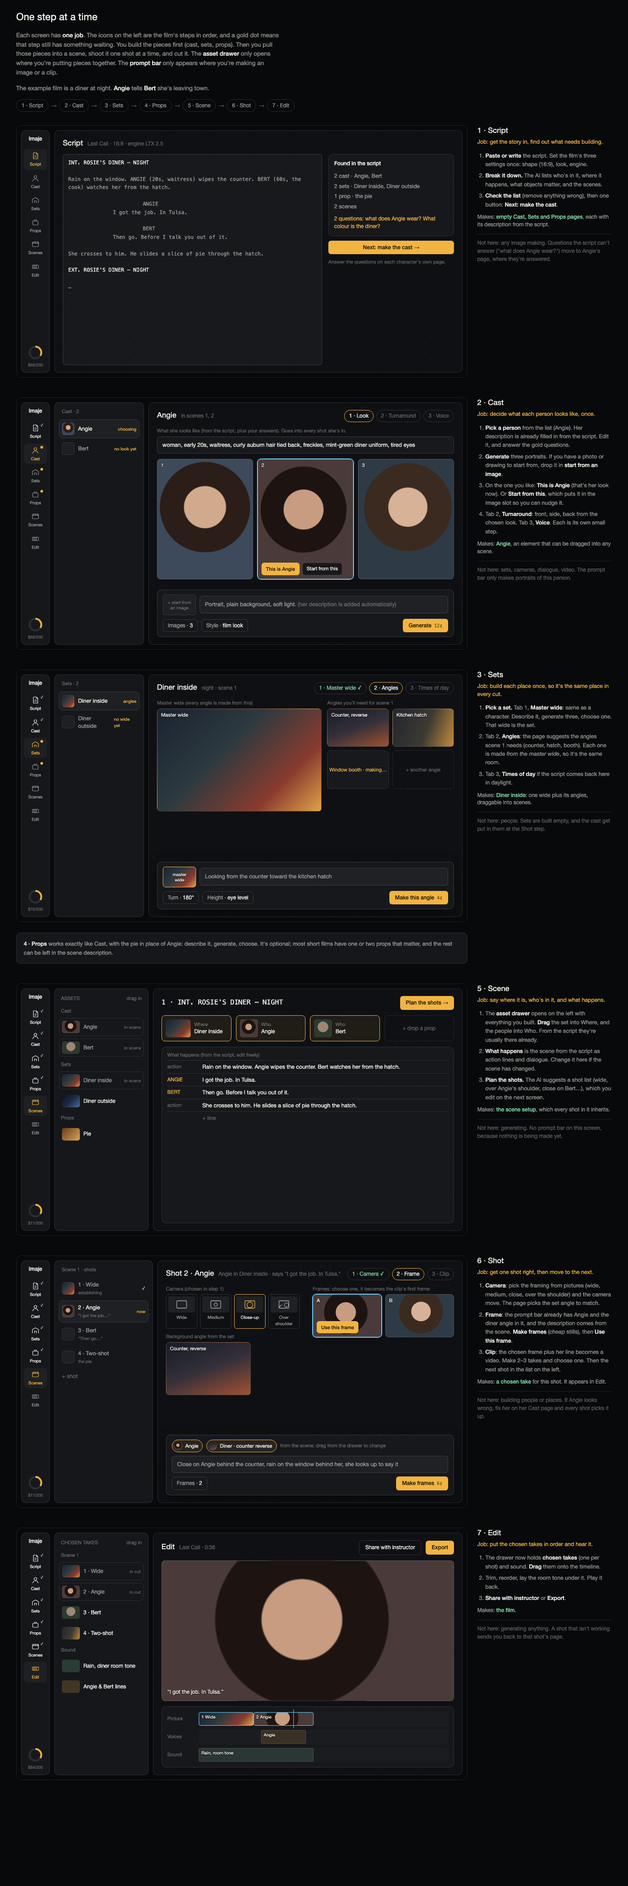
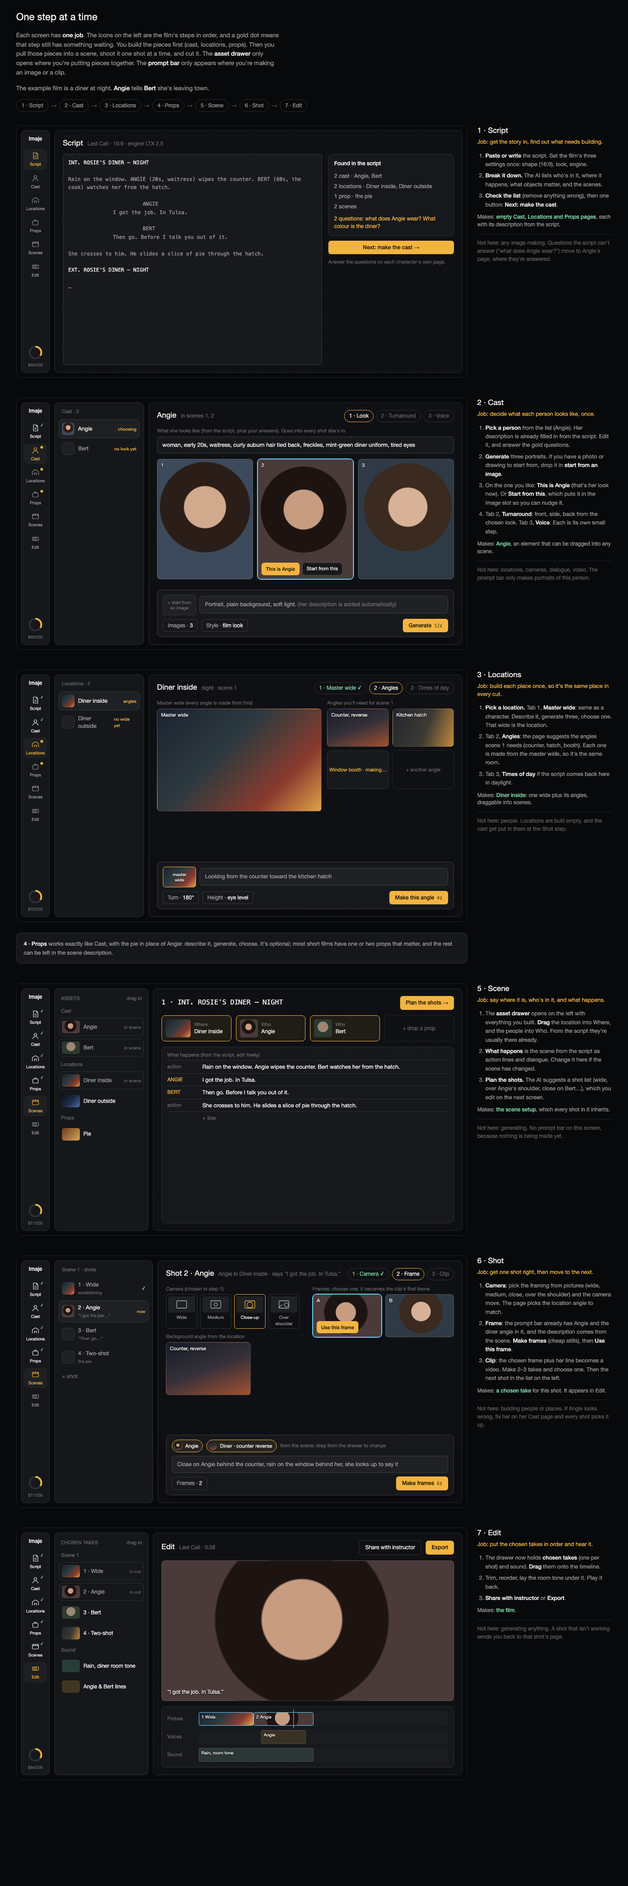
Rename Places to Locations (inside or out); /places redirects

diff --git a/docs/design/flow-mock.html b/docs/design/flow-mock.html
@@ -137,10 +137,10 @@ html,body{margin:0;background:var(--deep);color:var(--ink);font:13px/1.4 "Helvet
 <div class="wrap">
 <div class="intro">
   <h1>One step at a time</h1>
-  <p>Each screen has <b>one job</b>. The icons on the left are the film's steps in order, and a gold dot means that step still has something waiting. You build the pieces first (cast, sets, props). Then you pull those pieces into a scene, shoot it one shot at a time, and cut it. The <b>asset drawer</b> only opens where you're putting pieces together. The <b>prompt bar</b> only appears where you're making an image or a clip.</p>
+  <p>Each screen has <b>one job</b>. The icons on the left are the film's steps in order, and a gold dot means that step still has something waiting. You build the pieces first (cast, locations, props). Then you pull those pieces into a scene, shoot it one shot at a time, and cut it. The <b>asset drawer</b> only opens where you're putting pieces together. The <b>prompt bar</b> only appears where you're making an image or a clip.</p>
   <p>The example film is a diner at night. <b>Angie</b> tells <b>Bert</b> she's leaving town.</p>
 </div>
-<div class="path"><span>1 · Script</span><i>→</i><span>2 · Cast</span><i>→</i><span>3 · Sets</span><i>→</i><span>4 · Props</span><i>→</i><span>5 · Scene</span><i>→</i><span>6 · Shot</span><i>→</i><span>7 · Edit</span></div>
+<div class="path"><span>1 · Script</span><i>→</i><span>2 · Cast</span><i>→</i><span>3 · Locations</span><i>→</i><span>4 · Props</span><i>→</i><span>5 · Scene</span><i>→</i><span>6 · Shot</span><i>→</i><span>7 · Edit</span></div>
 
 <!-- ============ reusable rail markup is repeated per screen ============ -->
 
@@ -151,7 +151,7 @@ html,body{margin:0;background:var(--deep);color:var(--ink);font:13px/1.4 "Helvet
     <div class="logo">Imaje</div>
     <span class="ri on"><svg viewBox="0 0 24 24"><path d="M6 3h9l4 4v14H6z"/><path d="M15 3v4h4M9 12h7M9 16h7"/></svg>Script</span>
     <span class="ri"><svg viewBox="0 0 24 24"><circle cx="12" cy="8" r="4"/><path d="M4 21c0-4 3.6-7 8-7s8 3 8 7"/></svg>Cast</span>
-    <span class="ri"><svg viewBox="0 0 24 24"><path d="M3 20V9l9-5 9 5v11"/><path d="M9 20v-6h6v6"/></svg>Sets</span>
+    <span class="ri"><svg viewBox="0 0 24 24"><path d="M3 20V9l9-5 9 5v11"/><path d="M9 20v-6h6v6"/></svg>Locations</span>
     <span class="ri"><svg viewBox="0 0 24 24"><rect x="4" y="8" width="16" height="12" rx="2"/><path d="M9 8V5h6v3"/></svg>Props</span>
     <span class="ri"><svg viewBox="0 0 24 24"><rect x="3" y="5" width="18" height="14" rx="2"/><path d="M3 9h18M8 5l-2 4M14 5l-2 4M20 5l-2 4"/></svg>Scenes</span>
     <span class="ri"><svg viewBox="0 0 24 24"><rect x="3" y="7" width="18" height="10" rx="1"/><path d="M7 7v10M11 7v10M15 7v10"/></svg>Edit</span>
@@ -171,7 +171,7 @@ html,body{margin:0;background:var(--deep);color:var(--ink);font:13px/1.4 "Helvet
       <div style="display:flex;flex-direction:column;gap:10px">
         <div class="glass" style="padding:12px">
           <div style="font-size:12px;font-weight:500">Found in the script</div>
-          <div style="font-size:12.5px;color:var(--dim);margin-top:8px;line-height:1.8">2 cast · Angie, Bert<br>2 sets · Diner inside, Diner outside<br>1 prop · the pie<br>2 scenes</div>
+          <div style="font-size:12.5px;color:var(--dim);margin-top:8px;line-height:1.8">2 cast · Angie, Bert<br>2 locations · Diner inside, Diner outside<br>1 prop · the pie<br>2 scenes</div>
           <div style="font-size:12px;color:var(--gold);margin-top:8px">2 questions: what does Angie wear? What colour is the diner?</div>
         </div>
         <span class="btn" style="text-align:center">Next: make the cast →</span>
@@ -188,7 +188,7 @@ html,body{margin:0;background:var(--deep);color:var(--ink);font:13px/1.4 "Helvet
     <li><b>Break it down.</b> The AI lists who's in it, where it happens, what objects matter, and the scenes.</li>
     <li><b>Check the list</b> (remove anything wrong), then one button: <b>Next: make the cast</b>.</li>
   </ol>
-  <div class="out">Makes: <b>empty Cast, Sets and Props pages</b>, each with its description from the script.</div>
+  <div class="out">Makes: <b>empty Cast, Locations and Props pages</b>, each with its description from the script.</div>
   <div class="not">Not here: any image making. Questions the script can't answer ("what does Angie wear?") move to Angie's page, where they're answered.</div>
 </div>
 </div>
@@ -200,7 +200,7 @@ html,body{margin:0;background:var(--deep);color:var(--ink);font:13px/1.4 "Helvet
     <div class="logo">Imaje</div>
     <span class="ri done"><span class="ck">✓</span><svg viewBox="0 0 24 24"><path d="M6 3h9l4 4v14H6z"/><path d="M15 3v4h4M9 12h7M9 16h7"/></svg>Script</span>
     <span class="ri on"><span class="d"></span><svg viewBox="0 0 24 24"><circle cx="12" cy="8" r="4"/><path d="M4 21c0-4 3.6-7 8-7s8 3 8 7"/></svg>Cast</span>
-    <span class="ri"><span class="d"></span><svg viewBox="0 0 24 24"><path d="M3 20V9l9-5 9 5v11"/><path d="M9 20v-6h6v6"/></svg>Sets</span>
+    <span class="ri"><span class="d"></span><svg viewBox="0 0 24 24"><path d="M3 20V9l9-5 9 5v11"/><path d="M9 20v-6h6v6"/></svg>Locations</span>
     <span class="ri"><span class="d"></span><svg viewBox="0 0 24 24"><rect x="4" y="8" width="16" height="12" rx="2"/><path d="M9 8V5h6v3"/></svg>Props</span>
     <span class="ri"><svg viewBox="0 0 24 24"><rect x="3" y="5" width="18" height="14" rx="2"/><path d="M3 9h18M8 5l-2 4M14 5l-2 4M20 5l-2 4"/></svg>Scenes</span>
     <span class="ri"><svg viewBox="0 0 24 24"><rect x="3" y="7" width="18" height="10" rx="1"/><path d="M7 7v10M11 7v10M15 7v10"/></svg>Edit</span>
@@ -240,7 +240,7 @@ html,body{margin:0;background:var(--deep);color:var(--ink);font:13px/1.4 "Helvet
     <li>Tab 2, <b>Turnaround</b>: front, side, back from the chosen look. Tab 3, <b>Voice</b>. Each is its own small step.</li>
   </ol>
   <div class="out">Makes: <b>Angie</b>, an element that can be dragged into any scene.</div>
-  <div class="not">Not here: sets, cameras, dialogue, video. The prompt bar only makes portraits of this person.</div>
+  <div class="not">Not here: locations, cameras, dialogue, video. The prompt bar only makes portraits of this person.</div>
 </div>
 </div>
 
@@ -251,14 +251,14 @@ html,body{margin:0;background:var(--deep);color:var(--ink);font:13px/1.4 "Helvet
     <div class="logo">Imaje</div>
     <span class="ri done"><span class="ck">✓</span><svg viewBox="0 0 24 24"><path d="M6 3h9l4 4v14H6z"/><path d="M15 3v4h4M9 12h7M9 16h7"/></svg>Script</span>
     <span class="ri done"><span class="ck">✓</span><svg viewBox="0 0 24 24"><circle cx="12" cy="8" r="4"/><path d="M4 21c0-4 3.6-7 8-7s8 3 8 7"/></svg>Cast</span>
-    <span class="ri on"><span class="d"></span><svg viewBox="0 0 24 24"><path d="M3 20V9l9-5 9 5v11"/><path d="M9 20v-6h6v6"/></svg>Sets</span>
+    <span class="ri on"><span class="d"></span><svg viewBox="0 0 24 24"><path d="M3 20V9l9-5 9 5v11"/><path d="M9 20v-6h6v6"/></svg>Locations</span>
     <span class="ri"><span class="d"></span><svg viewBox="0 0 24 24"><rect x="4" y="8" width="16" height="12" rx="2"/><path d="M9 8V5h6v3"/></svg>Props</span>
     <span class="ri"><svg viewBox="0 0 24 24"><rect x="3" y="5" width="18" height="14" rx="2"/><path d="M3 9h18M8 5l-2 4M14 5l-2 4M20 5l-2 4"/></svg>Scenes</span>
     <span class="ri"><svg viewBox="0 0 24 24"><rect x="3" y="7" width="18" height="10" rx="1"/><path d="M7 7v10M11 7v10M15 7v10"/></svg>Edit</span>
     <span class="sp"></span><span class="ring"><i></i></span><small>$70/200</small>
   </nav>
   <div class="glass list">
-    <div class="h">Sets · 2</div>
+    <div class="h">Locations · 2</div>
     <div class="li on"><i style="border:none;background:var(--diner)"></i>Diner inside<span class="st todo">angles</span></div>
     <div class="li"><i></i>Diner outside<span class="st todo">no wide yet</span></div>
   </div>
@@ -285,15 +285,15 @@ html,body{margin:0;background:var(--deep);color:var(--ink);font:13px/1.4 "Helvet
   </div>
 </div></div>
 <div class="notes">
-  <h2>3 · Sets</h2>
+  <h2>3 · Locations</h2>
   <div class="job">Job: build each place once, so it's the same place in every cut.</div>
   <ol>
-    <li><b>Pick a set.</b> Tab 1, <b>Master wide</b>: same as a character. Describe it, generate three, choose one. That wide is the set.</li>
+    <li><b>Pick a location.</b> Tab 1, <b>Master wide</b>: same as a character. Describe it, generate three, choose one. That wide is the location.</li>
     <li>Tab 2, <b>Angles</b>: the page suggests the angles scene 1 needs (counter, hatch, booth). Each one is made <i>from the master wide</i>, so it's the same room.</li>
     <li>Tab 3, <b>Times of day</b> if the script comes back here in daylight.</li>
   </ol>
   <div class="out">Makes: <b>Diner inside</b>: one wide plus its angles, draggable into scenes.</div>
-  <div class="not">Not here: people. Sets are built empty, and the cast get put in them at the Shot step.</div>
+  <div class="not">Not here: people. Locations are built empty, and the cast get put in them at the Shot step.</div>
 </div>
 </div>
 
@@ -312,7 +312,7 @@ html,body{margin:0;background:var(--deep);color:var(--ink);font:13px/1.4 "Helvet
     <div class="logo">Imaje</div>
     <span class="ri done"><span class="ck">✓</span><svg viewBox="0 0 24 24"><path d="M6 3h9l4 4v14H6z"/><path d="M15 3v4h4M9 12h7M9 16h7"/></svg>Script</span>
     <span class="ri done"><span class="ck">✓</span><svg viewBox="0 0 24 24"><circle cx="12" cy="8" r="4"/><path d="M4 21c0-4 3.6-7 8-7s8 3 8 7"/></svg>Cast</span>
-    <span class="ri done"><span class="ck">✓</span><svg viewBox="0 0 24 24"><path d="M3 20V9l9-5 9 5v11"/><path d="M9 20v-6h6v6"/></svg>Sets</span>
+    <span class="ri done"><span class="ck">✓</span><svg viewBox="0 0 24 24"><path d="M3 20V9l9-5 9 5v11"/><path d="M9 20v-6h6v6"/></svg>Locations</span>
     <span class="ri done"><span class="ck">✓</span><svg viewBox="0 0 24 24"><rect x="4" y="8" width="16" height="12" rx="2"/><path d="M9 8V5h6v3"/></svg>Props</span>
     <span class="ri on"><svg viewBox="0 0 24 24"><rect x="3" y="5" width="18" height="14" rx="2"/><path d="M3 9h18M8 5l-2 4M14 5l-2 4M20 5l-2 4"/></svg>Scenes</span>
     <span class="ri"><svg viewBox="0 0 24 24"><rect x="3" y="7" width="18" height="10" rx="1"/><path d="M7 7v10M11 7v10M15 7v10"/></svg>Edit</span>
@@ -323,7 +323,7 @@ html,body{margin:0;background:var(--deep);color:var(--ink);font:13px/1.4 "Helvet
     <div class="h">Cast</div>
     <div class="as used"><i style="background:var(--angie2)"></i>Angie<span class="u">in scene</span></div>
     <div class="as used"><i style="background:var(--bert)"></i>Bert<span class="u">in scene</span></div>
-    <div class="h">Sets</div>
+    <div class="h">Locations</div>
     <div class="as used"><i style="background:var(--diner)"></i>Diner inside<span class="u">in scene</span></div>
     <div class="as"><i style="background:linear-gradient(135deg,#0d1220,#1d2a45,#4d6c9c)"></i>Diner outside</div>
     <div class="h">Props</div>
@@ -351,7 +351,7 @@ html,body{margin:0;background:var(--deep);color:var(--ink);font:13px/1.4 "Helvet
   <h2>5 · Scene</h2>
   <div class="job">Job: say where it is, who's in it, and what happens.</div>
   <ol>
-    <li>The <b>asset drawer</b> opens on the left with everything you built. <b>Drag</b> the set into Where, and the people into Who. From the script they're usually there already.</li>
+    <li>The <b>asset drawer</b> opens on the left with everything you built. <b>Drag</b> the location into Where, and the people into Who. From the script they're usually there already.</li>
     <li><b>What happens</b> is the scene from the script as action lines and dialogue. Change it here if the scene has changed.</li>
     <li><b>Plan the shots.</b> The AI suggests a shot list (wide, over Angie's shoulder, close on Bert…), which you edit on the next screen.</li>
   </ol>
@@ -367,7 +367,7 @@ html,body{margin:0;background:var(--deep);color:var(--ink);font:13px/1.4 "Helvet
     <div class="logo">Imaje</div>
     <span class="ri done"><span class="ck">✓</span><svg viewBox="0 0 24 24"><path d="M6 3h9l4 4v14H6z"/><path d="M15 3v4h4M9 12h7M9 16h7"/></svg>Script</span>
     <span class="ri done"><span class="ck">✓</span><svg viewBox="0 0 24 24"><circle cx="12" cy="8" r="4"/><path d="M4 21c0-4 3.6-7 8-7s8 3 8 7"/></svg>Cast</span>
-    <span class="ri done"><span class="ck">✓</span><svg viewBox="0 0 24 24"><path d="M3 20V9l9-5 9 5v11"/><path d="M9 20v-6h6v6"/></svg>Sets</span>
+    <span class="ri done"><span class="ck">✓</span><svg viewBox="0 0 24 24"><path d="M3 20V9l9-5 9 5v11"/><path d="M9 20v-6h6v6"/></svg>Locations</span>
     <span class="ri done"><span class="ck">✓</span><svg viewBox="0 0 24 24"><rect x="4" y="8" width="16" height="12" rx="2"/><path d="M9 8V5h6v3"/></svg>Props</span>
     <span class="ri on"><svg viewBox="0 0 24 24"><rect x="3" y="5" width="18" height="14" rx="2"/><path d="M3 9h18M8 5l-2 4M14 5l-2 4M20 5l-2 4"/></svg>Scenes</span>
     <span class="ri"><svg viewBox="0 0 24 24"><rect x="3" y="7" width="18" height="10" rx="1"/><path d="M7 7v10M11 7v10M15 7v10"/></svg>Edit</span>
@@ -387,7 +387,7 @@ html,body{margin:0;background:var(--deep);color:var(--ink);font:13px/1.4 "Helvet
     <div style="display:grid;grid-template-columns:1fr 1fr;gap:12px">
       <div><div class="lbl">Camera (chosen in step 1)</div>
         <div class="tiles"><div class="tile"><div class="v"><svg viewBox="0 0 30 24"><rect x="3" y="3" width="24" height="18" rx="2"/></svg></div>Wide</div><div class="tile"><div class="v"><svg viewBox="0 0 30 24"><rect x="3" y="3" width="24" height="18" rx="2"/><circle cx="15" cy="12" r="4"/></svg></div>Medium</div><div class="tile on"><div class="v"><svg viewBox="0 0 30 24"><rect x="3" y="3" width="24" height="18" rx="2"/><circle cx="15" cy="13" r="7"/></svg></div>Close-up</div><div class="tile"><div class="v"><svg viewBox="0 0 30 24"><rect x="3" y="3" width="24" height="18" rx="2"/><circle cx="21" cy="13" r="5"/><path d="M3 21c2-6 6-8 8-8"/></svg></div>Over shoulder</div></div>
-        <div class="lbl" style="margin-top:10px">Background angle from the set</div>
+        <div class="lbl" style="margin-top:10px">Background angle from the location</div>
         <div class="im" style="background:var(--diner2);width:60%"><span class="n">Counter, reverse</span></div>
       </div>
       <div><div class="lbl">Frames: choose one, it becomes the clip's first frame</div>
@@ -412,7 +412,7 @@ html,body{margin:0;background:var(--deep);color:var(--ink);font:13px/1.4 "Helvet
   <h2>6 · Shot</h2>
   <div class="job">Job: get one shot right, then move to the next.</div>
   <ol>
-    <li><b>Camera</b>: pick the framing from pictures (wide, medium, close, over the shoulder) and the camera move. The page picks the set angle to match.</li>
+    <li><b>Camera</b>: pick the framing from pictures (wide, medium, close, over the shoulder) and the camera move. The page picks the location angle to match.</li>
     <li><b>Frame</b>: the prompt bar already has Angie and the diner angle in it, and the description comes from the scene. <b>Make frames</b> (cheap stills), then <b>Use this frame</b>.</li>
     <li><b>Clip</b>: the chosen frame plus her line becomes a video. Make 2–3 takes and choose one. Then the next shot in the list on the left.</li>
   </ol>
@@ -428,7 +428,7 @@ html,body{margin:0;background:var(--deep);color:var(--ink);font:13px/1.4 "Helvet
     <div class="logo">Imaje</div>
     <span class="ri done"><span class="ck">✓</span><svg viewBox="0 0 24 24"><path d="M6 3h9l4 4v14H6z"/><path d="M15 3v4h4M9 12h7M9 16h7"/></svg>Script</span>
     <span class="ri done"><span class="ck">✓</span><svg viewBox="0 0 24 24"><circle cx="12" cy="8" r="4"/><path d="M4 21c0-4 3.6-7 8-7s8 3 8 7"/></svg>Cast</span>
-    <span class="ri done"><span class="ck">✓</span><svg viewBox="0 0 24 24"><path d="M3 20V9l9-5 9 5v11"/><path d="M9 20v-6h6v6"/></svg>Sets</span>
+    <span class="ri done"><span class="ck">✓</span><svg viewBox="0 0 24 24"><path d="M3 20V9l9-5 9 5v11"/><path d="M9 20v-6h6v6"/></svg>Locations</span>
     <span class="ri done"><span class="ck">✓</span><svg viewBox="0 0 24 24"><rect x="4" y="8" width="16" height="12" rx="2"/><path d="M9 8V5h6v3"/></svg>Props</span>
     <span class="ri done"><span class="ck">✓</span><svg viewBox="0 0 24 24"><rect x="3" y="5" width="18" height="14" rx="2"/><path d="M3 9h18M8 5l-2 4M14 5l-2 4M20 5l-2 4"/></svg>Scenes</span>
     <span class="ri on"><svg viewBox="0 0 24 24"><rect x="3" y="7" width="18" height="10" rx="1"/><path d="M7 7v10M11 7v10M15 7v10"/></svg>Edit</span>

diff --git a/apps/web/app/p/[projectId]/ScriptStudio.tsx b/apps/web/app/p/[projectId]/ScriptStudio.tsx
@@ -7,7 +7,7 @@ import { applyBreakdown, runBreakdown, saveScript } from "./script/actions";
 type Existing = { kind: string; name: string };
 const norm = (s: string) => s.trim().toLowerCase().replace(/\s+/g, " ");
 
-// The script, and its breakdown. Paste or write the script; "Break it down" asks for the cast, places,
+// The script, and its breakdown. Paste or write the script; "Break it down" asks for the cast, locations,
 // props and scenes; the student edits what came back (especially how each character looks) and keeps it.
 export function ScriptStudio({ projectId, initial, existing, canEdit }: { projectId: string; initial: string; existing: Existing[]; canEdit: boolean }) {
   const router = useRouter();
@@ -48,7 +48,7 @@ export function ScriptStudio({ projectId, initial, existing, canEdit }: { projec
       const r = await applyBreakdown(projectId, kept);
       setPhase("idle");
       if ("error" in r) { setMsg({ kind: "error", text: r.error }); return; }
-      setMsg({ kind: "ok", text: `${r.summary} Next: give every character a look and every place a master wide.` });
+      setMsg({ kind: "ok", text: `${r.summary} Next: give every character a look and every location a master wide.` });
       setB(null); router.refresh();
     });
   }
@@ -79,7 +79,7 @@ export function ScriptStudio({ projectId, initial, existing, canEdit }: { projec
             <button type="button" onClick={breakdown} disabled={pending || script.trim().length < 40} className="btn-primary disabled:opacity-40">
               {phase === "reading" ? "Reading the script…" : "Break it down"}
             </button>
-            <span className="text-[11px] text-mute">Finds the characters, places, props and scenes. You check it before anything is kept.</span>
+            <span className="text-[11px] text-mute">Finds the characters, locations, props and scenes. You check it before anything is kept.</span>
           </div>
         )}
         {msg && <p className={`mt-2 text-[12px] ${msg.kind === "ok" ? "text-ok" : "text-drift"}`}>{msg.text}</p>}
@@ -91,9 +91,9 @@ export function ScriptStudio({ projectId, initial, existing, canEdit }: { projec
             <div className="text-[12px] font-medium text-ink">How this works</div>
             <ol className="mt-2 list-decimal space-y-1 pl-4">
               <li>Write or paste the script on the left.</li>
-              <li><b className="text-ink">Break it down.</b> You get the cast, the places, the props and the scenes it found.</li>
-              <li>Describe how each character looks and what each place looks like. That description is used in every shot they appear in.</li>
-              <li>Keep it. Then build each character and place once (Cast, Places), and shoot scene by scene.</li>
+              <li><b className="text-ink">Break it down.</b> You get the cast, the locations, the props and the scenes it found.</li>
+              <li>Describe how each character looks and what each location looks like. That description is used in every shot they appear in.</li>
+              <li>Keep it. Then build each character and location once (Cast, Locations), and shoot scene by scene.</li>
             </ol>
           </div>
         )}
@@ -120,7 +120,7 @@ export function ScriptStudio({ projectId, initial, existing, canEdit }: { projec
               </div>
             </section>
             <section className="glass rounded-[10px] p-3">
-              <div className="text-[12px] font-medium">Places <span className="font-normal text-mute">· {b.locations.length}</span></div>
+              <div className="text-[12px] font-medium">Locations <span className="font-normal text-mute">· {b.locations.length}</span></div>
               <div className="mt-2 flex flex-col gap-3">
                 {b.locations.map((l, i) => (
                   <div key={i} className="rounded-[8px] border border-glass-edge p-2">

diff --git a/apps/web/app/p/[projectId]/bible/BibleList.tsx b/apps/web/app/p/[projectId]/bible/BibleList.tsx
@@ -7,7 +7,7 @@ type Kind = "character" | "location" | "prop" | "style" | "voice";
 const COPY: Record<Kind, { title: string; blurb: string; name: string; who: string; look: string; lookPh: string }> = {
   character: { title: "Cast", blurb: "Everyone in the film. Build each one once: who they are and exactly how they look. That look goes into every shot they're in.",
                name: "MAYA", who: "Who they are", look: "What they look like", lookPh: "woman, 30s, long straight dark hair, round glasses, grey wool coat" },
-  location: { title: "Places", blurb: "Every set. Describe it, then make a master wide: every angle of the place is made from that wide so it stays the same place.",
+  location: { title: "Locations", blurb: "Every location, inside or out. Describe it, then make a master wide: every angle is made from that wide so it stays the same location.",
               name: "WAREHOUSE", who: "What it is", look: "What it looks like", lookPh: "empty brick warehouse, one high window, concrete floor, dusk light" },
   prop: { title: "Props", blurb: "Objects the story depends on. Describe them once so they look the same in every shot.",
           name: "RED DUFFEL BAG", who: "What it's for", look: "What it looks like", lookPh: "faded red canvas duffel, black straps, scuffed corners" },
@@ -66,7 +66,7 @@ export async function BibleList({ projectId, kind, ok, error }: { projectId: str
       </ul>
 
       <details className="glass rounded-[10px] p-3">
-        <summary className="cursor-pointer select-none text-[12px] font-medium">Add {kind === "character" ? "a character" : kind === "location" ? "a place" : `a ${kind}`}</summary>
+        <summary className="cursor-pointer select-none text-[12px] font-medium">Add {kind === "character" ? "a character" : kind === "location" ? "a location" : `a ${kind}`}</summary>
         <form action={createEntry} className="mt-3 grid gap-2 sm:grid-cols-2">
           <input type="hidden" name="project_id" value={projectId} /><input type="hidden" name="kind" value={kind} />
           <label className="label">Name<input name="name" required placeholder={c.name} className="input mt-0.5 w-full" /></label>

diff --git a/apps/web/components/ProjectPanel.tsx b/apps/web/components/ProjectPanel.tsx
@@ -3,8 +3,8 @@ import { NavGroup, NavItem } from "./NavItem";
 import { TokenBar, TokenRing, type Budget } from "./TokenMeter";
 
 // The slide-out for a project: the cohort's projects (current one open) with the project's pages
-// underneath as production stages (Script → Cast / Places / Props → Scenes), and the token meter.
-export type StageCounts = { script?: string; cast?: string; places?: string; props?: string; scenes?: string };
+// underneath as production stages (Script → Cast / Locations / Props → Scenes), and the token meter.
+export type StageCounts = { script?: string; cast?: string; locations?: string; props?: string; scenes?: string };
 export function ProjectPanel({ nav, cohortId, projectId, budget, note, inline, counts, children }: { nav: Nav; cohortId: string; projectId: string; budget?: Budget | null; note?: React.ReactNode; inline?: boolean; counts?: StageCounts; children?: React.ReactNode }) {
   const projects = nav.projectsByCohort[cohortId] ?? [];
   const cohort = nav.cohorts.find((c) => c.id === cohortId);
@@ -21,7 +21,7 @@ export function ProjectPanel({ nav, cohortId, projectId, budget, note, inline, c
                 <div>
                   <NavItem href={`/p/${p.id}`} exact depth={1} icon="BookOpen" mark={counts?.script}>Script</NavItem>
                   <NavItem href={`/p/${p.id}/cast`} depth={1} icon="UserRound" mark={counts?.cast}>Cast</NavItem>
-                  <NavItem href={`/p/${p.id}/places`} depth={1} icon="Building2" mark={counts?.places}>Places</NavItem>
+                  <NavItem href={`/p/${p.id}/locations`} depth={1} icon="Building2" mark={counts?.locations}>Locations</NavItem>
                   <NavItem href={`/p/${p.id}/props`} depth={1} icon="KeyRound" mark={counts?.props}>Props</NavItem>
                   <NavItem href={`/p/${p.id}/scenes`} depth={1} icon="LayoutGrid" mark={counts?.scenes}>Scenes</NavItem>
                   <NavItem href={`/p/${p.id}/members`} depth={1} icon="Users">Crew</NavItem>

diff --git a/apps/web/app/p/[projectId]/page.tsx b/apps/web/app/p/[projectId]/page.tsx
@@ -19,9 +19,9 @@ export default async function ProjectHome({ params }: { params: Promise<{ projec
   const chosen = (shots ?? []).filter((s) => s.selected_take_id).length;
   const hasScript = !!project?.script?.trim();
   const next = !hasScript ? "Write or paste the script, then break it down."
-    : count("character") + count("location") === 0 ? "Break the script down to find the cast and the places."
-    : unlooked > 0 ? `${unlooked} character${unlooked === 1 ? "" : "s"} or place${unlooked === 1 ? "" : "s"} still need a description of how they look.`
-    : unbuilt > 0 ? `${unbuilt} place${unbuilt === 1 ? "" : "s"} still need a master wide.`
+    : count("character") + count("location") === 0 ? "Break the script down to find the cast and the locations."
+    : unlooked > 0 ? `${unlooked} character${unlooked === 1 ? "" : "s"} or location${unlooked === 1 ? "" : "s"} still need a description of how they look.`
+    : unbuilt > 0 ? `${unbuilt} location${unbuilt === 1 ? "" : "s"} still need a master wide.`
     : "Shoot scene by scene.";
   const stage = (href: string, label: string, detail: string) => (
     <Link href={href} className="glass flex min-w-[130px] flex-1 flex-col rounded-[10px] px-3 py-2 hover:border-card-edge">
@@ -38,7 +38,7 @@ export default async function ProjectHome({ params }: { params: Promise<{ projec
       <div className="flex flex-wrap gap-2">
         {stage(`/p/${projectId}`, "1 · Script", hasScript ? "written" : "not started")}
         {stage(`/p/${projectId}/cast`, "2 · Cast", `${count("character")} characters`)}
-        {stage(`/p/${projectId}/places`, "3 · Places", `${count("location")} places`)}
+        {stage(`/p/${projectId}/locations`, "3 · Locations", `${count("location")} locations`)}
         {stage(`/p/${projectId}/props`, "Props", `${count("prop")} props`)}
         {stage(`/p/${projectId}/scenes`, "4 · Scenes", `${(scenes ?? []).length} scenes · ${chosen}/${(shots ?? []).length} cuts chosen`)}
       </div>

diff --git a/apps/web/app/p/[projectId]/layout.tsx b/apps/web/app/p/[projectId]/layout.tsx
@@ -5,7 +5,7 @@ import { createClient } from "@/lib/supabase/server";
 import { Shell } from "@/components/Shell";
 import { SidebarNote } from "@/components/Sidebar";
 
-const SECTIONS = { "": "Script", cast: "Cast", places: "Places", props: "Props", bible: "Bible", scenes: "Scenes", shoot: "Scenes", shots: "Scenes", members: "Crew" };
+const SECTIONS = { "": "Script", cast: "Cast", locations: "Locations", places: "Locations", props: "Props", bible: "Bible", scenes: "Scenes", shoot: "Scenes", shots: "Scenes", members: "Crew" };
 
 export default async function ProjectLayout({ children, params }: { children: React.ReactNode; params: Promise<{ projectId: string }> }) {
   const { projectId } = await params;
@@ -25,7 +25,7 @@ export default async function ProjectLayout({ children, params }: { children: Re
     supabase.from("projects").select("script").eq("id", projectId).maybeSingle(),
   ]);
   const n = (k: string) => String((entries ?? []).filter((e) => e.kind === k).length);
-  const counts = { script: proj?.script?.trim() ? "✓" : "", cast: n("character"), places: n("location"), props: n("prop"), scenes: String((scenes ?? []).length) };
+  const counts = { script: proj?.script?.trim() ? "✓" : "", cast: n("character"), locations: n("location"), props: n("prop"), scenes: String((scenes ?? []).length) };
   const base = `/p/${projectId}`;
   const cohortName = project.cohorts?.name ?? "Cohort";
 

diff --git a/apps/web/app/p/[projectId]/bible/[entryId]/page.tsx b/apps/web/app/p/[projectId]/bible/[entryId]/page.tsx
@@ -74,7 +74,7 @@ export default async function EntryPage({ params, searchParams }: { params: Prom
         <h1 className="text-[22px]">{e.name} <span className="ml-2 text-[13px] text-dim">{e.kind === "location" ? "environment" : e.kind}</span></h1>
         {e.requires_consent && <BibleChip state={e.consent_state} />}
         {row?.forked_from && <Link href={`/p/${projectId}/bible/${row.forked_from}`} className="text-[11px] text-mute underline">forked from an earlier version</Link>}
-        <Link href={`/p/${projectId}/${e.kind === "location" ? "places" : e.kind === "prop" ? "props" : "cast"}`} className="ml-auto text-[11px] text-mute hover:text-dim">← {e.kind === "location" ? "Places" : e.kind === "prop" ? "Props" : "Cast"}</Link>
+        <Link href={`/p/${projectId}/${e.kind === "location" ? "locations" : e.kind === "prop" ? "props" : "cast"}`} className="ml-auto text-[11px] text-mute hover:text-dim">← {e.kind === "location" ? "Locations" : e.kind === "prop" ? "Props" : "Cast"}</Link>
       </div>
       {ok && <p className="rounded-[6px] bg-ok/10 px-3 py-2 text-[12px] text-ok">{ok}</p>}
       {error && <p className="rounded-[6px] bg-drift/10 px-3 py-2 text-[12px] text-drift">{error}</p>}

diff --git a/apps/web/app/p/[projectId]/scenes/page.tsx b/apps/web/app/p/[projectId]/scenes/page.tsx
@@ -94,7 +94,7 @@ export default async function ScenesPage({ params, searchParams }: { params: Pro
           {scene && (
             <div className="mt-1 flex flex-wrap items-center gap-1.5 text-[11px]">
               {sceneLocation ? <Link href={`/p/${projectId}/bible/${sceneLocation.id}`} className="pill pinned">{sceneLocation.name}</Link>
-                : <Link href={`/p/${projectId}/places`} className="pill border-dashed text-gold">set a place for this scene</Link>}
+                : <Link href={`/p/${projectId}/locations`} className="pill border-dashed text-gold">set a location for this scene</Link>}
               {scene.time_of_day && <span className="pill text-dim">{scene.time_of_day}</span>}
               {sceneMembers.map((m) => <Link key={m.id} href={`/p/${projectId}/bible/${m.id}`} className="pill text-dim">{m.name}</Link>)}
             </div>

diff --git a/apps/web/app/p/[projectId]/places/page.tsx b/apps/web/app/p/[projectId]/places/page.tsx
@@ -1,7 +1,7 @@
-import { BibleList } from "../bible/BibleList";
+import { redirect } from "next/navigation";
 
-export default async function Page({ params, searchParams }: { params: Promise<{ projectId: string }>; searchParams: Promise<{ ok?: string; error?: string }> }) {
+// Places was renamed Locations; old links still land.
+export default async function Page({ params }: { params: Promise<{ projectId: string }> }) {
   const { projectId } = await params;
-  const { ok, error } = await searchParams;
-  return <BibleList projectId={projectId} kind="location" ok={ok} error={error} />;
+  redirect(`/p/${projectId}/locations`);
 }

diff --git a/apps/web/app/p/[projectId]/bible/page.tsx b/apps/web/app/p/[projectId]/bible/page.tsx
@@ -1,6 +1,6 @@
 import { redirect } from "next/navigation";
 
-// The bible is split by kind now: Cast, Places, Props. Old links land on Cast.
+// The bible is split by kind now: Cast, Locations, Props. Old links land on Cast.
 export default async function BiblePage({ params }: { params: Promise<{ projectId: string }> }) {
   const { projectId } = await params;
   redirect(`/p/${projectId}/cast`);

diff --git a/apps/web/app/p/[projectId]/locations/page.tsx b/apps/web/app/p/[projectId]/locations/page.tsx
@@ -1,0 +1,7 @@
+import { BibleList } from "../bible/BibleList";
+
+export default async function Page({ params, searchParams }: { params: Promise<{ projectId: string }>; searchParams: Promise<{ ok?: string; error?: string }> }) {
+  const { projectId } = await params;
+  const { ok, error } = await searchParams;
+  return <BibleList projectId={projectId} kind="location" ok={ok} error={error} />;
+}
